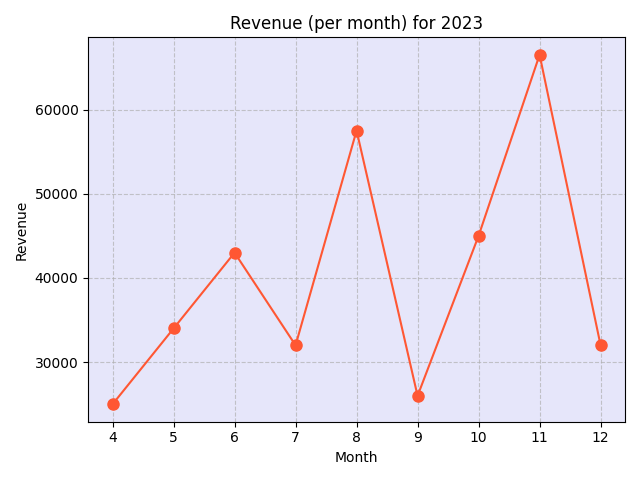
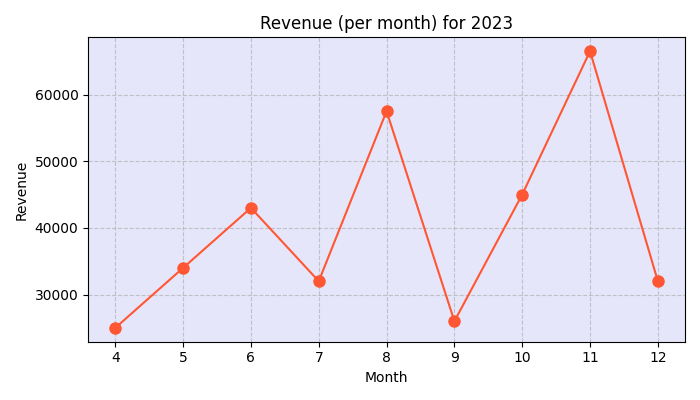
All working

diff --git a/templates/demo.html b/templates/demo.html
@@ -17,6 +17,8 @@
     
         <!-- Bootstrap JavaScript -->
         <script src="https://cdnjs.cloudflare.com/ajax/libs/twitter-bootstrap/3.3.7/js/bootstrap.min.js"></script>
+
+        <script src="https://cdn.plot.ly/plotly-latest.min.js"></script>
         <title>SmartLeather.io - {% block title %}Demo{% endblock %}</title>
     </head>    
     <body>
@@ -143,6 +145,72 @@
                         </div>
                     </div>
                 </div>
+            </div>
+        </div>
+
+        <div id="home" class="sect sect--padding-top">
+            <div class="container">
+                <div class="row">
+                    <div class="col-md-12">
+                        <div class="site">
+                            <h1 class="site__title">Download Up-To-Date Data</h1><br>
+                            <h2 class="row__sub">View and know your data in excel sheet</h2><br>
+                            <div class="site__box-link">
+                                <button class="btn btn--purple btn-width" onclick="download()">Download</button>
+                            </div>
+                        </div>
+                    </div>
+                </div>
+            </div>
+        </div>
+
+        <div class="sect sect--white">
+            <div class="container">
+                <div class="row">
+                    <h1 class="row__title">
+                        Visualized Dashboard
+                    </h1>
+                    <h2 class="row__sub">Explore and Analyze the Visualized Data</h2>
+                </div>
+        
+                <div class="row row--margin">
+                    <div class="col-md-6 article-pre__col">
+                        <div class="article-pre ">
+                            <div class="article-pre__img article-pre__img--1"></div>
+                            <h2 class="article-pre__info">
+                                <span class="article-pre__cat"><b>Revenue Line Graph</b></span>
+                            </h2>
+                        </div>
+                    </div>
+        
+                    <div class="col-md-6 article-pre__col">
+                        <a class="article-pre " href="/live">
+                        <div class="article-pre__img article-pre__img--2"></div>
+                        <h2 class="article-pre__info">
+                            <span class="article-pre__cat"><b>Live Dashboard on Orders/Jobs - Click</b></span>
+                        </h2>
+                        </a>
+                    </div>    
+                </div>
+
+                <div class="col-md-6 article-pre__col">
+                    <div class="article-pre ">
+                        <div class="article-pre__img article-pre__img--3"></div>
+                        <h2 class="article-pre__info">
+                            <span class="article-pre__cat"><b>Top Most Frequent Clients</b></span>
+                        </h2>
+                    </div>
+                </div>
+    
+                <div class="col-md-6 article-pre__col">
+                    <div class="article-pre ">
+                    <div class="article-pre__img article-pre__img--4"></div>
+                    <h2 class="article-pre__info">
+                        <span class="article-pre__cat"><b>Top Hot Selling Products</b></span>
+                    </h2>
+                    </div>
+                </div>    
+            </div>
             </div>
         </div>
 
@@ -343,12 +411,10 @@
                 <div class="row">
                     <div class="col-md-12">
                         <div class="site">
-                            <h1 class="site__title">Start Your Scanner | Download Live Data</h1><br>
-                            <h2 class="row__sub">Print QR Codes - Stick it on the product - Scan it</h2>
-                            <h2 class="row__sub">Download Up-To-Date Excel Sheet</h2><br>
+                            <h1 class="site__title">Start Your Scanner</h1><br>
+                            <h2 class="row__sub">Print QR Codes - Stick it on the product - Scan it</h2><br>
                             <div class="site__box-link">
                                 <a class="btn btn--green" href="/scan">Scan</a>
-                                <button class="btn btn--revert btn-width" onclick="download()">Download</button>
                             </div>
                         </div>
                     </div>
@@ -356,60 +422,6 @@
             </div>
         </div>
     
-        <!--
-        <div class="sect sect--white sect--no-padding">
-            <div class="container">
-                <div class="row row--center">
-                    <div class="col-md-3 col-xs-6 col-sm-6 partner">
-                        <a href="#" class="partner__link">
-                            <img class="partner_img" src="https://image.ibb.co/mOtHRw/fblogo.png">
-                        </a>
-                    </div>
-                
-                    <div class="col-md-3  col-xs-6 col-sm-6 partner">
-                        <a href="#" class="partner__link">
-                            <img class="partner_img" src="https://image.ibb.co/nfpXRw/twitterlogo.png">
-                        </a>
-                    </div>
-        
-        
-                    <div class="col-md-3 col-xs-6 col-sm-6 partner">
-                        <a href="#" class="partner__link">
-                            <img class="partner_img" src="https://image.ibb.co/imgOYb/googlelogo.png">
-                        </a>
-                    </div>
-        
-                    <div class="col-md-3 col-xs-6 col-sm-6 partner">
-                        <a href="#" class="partner__link">
-                            <img class="partner_img" src="https://image.ibb.co/ebGAeG/dribbblelogo.png">
-                        </a>
-                    </div>
-                </div>
-                <div class="row row--center">
-                    <div class="col-md-3 col-xs-6 col-sm-6 partner">
-                        <a href="#" class="partner__link">
-                            <img class="partner_img" src="https://image.ibb.co/npV8Yb/gitlogo.png">
-                        </a>
-                    </div>
-                    <div class="col-md-3 col-xs-6 col-sm-6 partner">
-                        <a href="#" class="partner__link">
-                            <img class="partner_img" src="https://image.ibb.co/cGyZ6w/stacklogo.png">
-                        </a>
-                    </div>
-                    <div class="col-md-3 col-xs-6 col-sm-6 partner">
-                        <a href="#" class="partner__link">
-                            <img class="partner_img" src="https://image.ibb.co/ij03zG/inlogo.png">
-                        </a>
-                    </div>
-                    <div class="col-md-3 col-xs-6 col-sm-6 partner">
-                        <a href="#" class="partner__link">
-                            <img class="partner_img" src="https://image.ibb.co/ekqdzG/codepenlogo.png">
-                        </a>
-                    </div>
-                </div>
-            </div>    
-        </div>
-        --->
         <div class="sect sect--white">
             <div class="container">
                 <div class="row">
@@ -487,8 +499,13 @@
             </div>
         </footer>
         <script>
-            function download(){
-                fetch('/download').then(response => console.log(response.text()));
+            function download() {
+                const a = document.createElement('a');
+                a.href = '/download';
+                a.download = 'management.xlsx';
+                document.body.appendChild(a);
+                a.click();
+                document.body.removeChild(a);
             }
             $("#myCarousel").carousel({
                 interval: false

diff --git a/static/styles.css b/static/styles.css
@@ -618,6 +618,22 @@ filter: drop-shadow(0px 7px 4px rgba(0,0,0,.2));
   background-image: url(/static/assets/process.jpg);  
 }
 
+.article-pre__img--1{
+  background-image: url(/static/graphs/revenue.png);  
+}
+
+.article-pre__img--2{
+  background-image: url(/static/graphs/gauge_chart.png);  
+}
+
+.article-pre__img--3{
+  background-image: url(/static/graphs/customers.png);  
+}
+
+.article-pre__img--4{
+  background-image: url(/static/graphs/products.png);  
+}
+
 .article-pre:hover .article-pre__img {
   box-shadow: 0px 10px 13px 4px rgba(0, 0, 0,0.2);
 }

diff --git a/templates/live.html b/templates/live.html
@@ -1,0 +1,10 @@
+{% extends "demo.html" %}
+{% block title %}
+    Live Dashboard
+{% endblock %}
+
+{% block main %}
+    {% for item in charts %}
+        <div class="chart-container">{{ item | safe }}</div>
+    {% endfor %}
+{% endblock %}

diff --git a/app.py b/app.py
@@ -2,10 +2,12 @@ from cs50 import SQL
 from flask import Flask, redirect, render_template, request, session, send_file
 from flask_session import Session
 
+from download_excel import export_all_tables_to_excel
 from qr_scan import QRScanner
 from qr_generator import generate_qr_code
 from id_generation import product_id_generation, order_id_generation, customer_id_generation, job_card_generation
 from methods import copy_to_clipboard, customer_exists, add_customer, get_customers, check_customer, delete_customer, get_products, add_product, check_product, delete_product, add_order, check_order, delete_order
+from data_visualization import revenue_chart, top_customers, top_products, job_charts
 
 app = Flask(__name__)
 db = SQL("sqlite:///management.db")
@@ -32,6 +34,9 @@ def demo():
     if request.method == "GET":
         CUSTOMERS = get_customers()
         PRODUCTS = get_products()
+        revenue_chart()
+        top_customers()
+        top_products()
         return render_template("demo.html", customers = CUSTOMERS, products = PRODUCTS)
     else:
         # New Product
@@ -193,8 +198,14 @@ def stop_scanner():
     return 'Scanner stopped'
 
 @app.route("/download")
-def download():
-    pass
+def download_excel():
+    export_all_tables_to_excel()
+    return send_file("management.xlsx", as_attachment=True)
+
+@app.route("/live")
+def live():
+    CHARTS = job_charts()
+    return render_template("live.html", charts=CHARTS)
 
 if __name__ == '__main__':
     app.run(debug=True)

diff --git a/download_excel.py b/download_excel.py
@@ -1,27 +1,25 @@
 import sqlite3
 import pandas as pd
 
-def export_data_to_excel():
+def export_all_tables_to_excel(db_file_path='management.db', excel_file_path='management.xlsx'):
     # Connect to the SQLite database
-    conn = sqlite3.connect('management.db')  # Replace 'your_database.db' with the actual name of your SQLite database
-    cursor = conn.cursor()
+    conn = sqlite3.connect(db_file_path)
 
-    # Fetch all table names from the database
+    # Get a list of all tables
+    cursor = conn.cursor()
     cursor.execute("SELECT name FROM sqlite_master WHERE type='table';")
     tables = cursor.fetchall()
 
-    # Create a Pandas Excel writer using the 'xlsxwriter' engine
-    excel_writer = pd.ExcelWriter('exported_data.xlsx', engine='openpyxl')
+    # Excel writer engine
+    excel_writer = pd.ExcelWriter(excel_file_path, engine='xlsxwriter')
 
-    # Iterate through each table and write it to the Excel file
+    # Loop through all tables and export data to Excel
     for table in tables:
         table_name = table[0]
         query = f"SELECT * FROM {table_name};"
         df = pd.read_sql_query(query, conn)
         df.to_excel(excel_writer, sheet_name=table_name, index=False)
 
-    # Close the Pandas Excel writer and the SQLite connection
-    excel_writer.save()
+    # Save the Excel file
+    excel_writer.close()
     conn.close()
-
-export_data_to_excel()

diff --git a/data_visualization.py b/data_visualization.py
@@ -12,6 +12,7 @@ def revenue_chart():
     rows = db.execute("SELECT Total_Revenue FROM revenue WHERE YEAR = 2023")
     revenue = [row["Total_Revenue"] for row in rows]
     
+    plt.figure(figsize=(7, 4))
     plt.plot(months, revenue, color="#FF5733", label="Revenue (per month) for 2023", linestyle='-', marker='o', markersize=8)
     plt.xlabel("Month")
     plt.ylabel("Revenue")
@@ -35,6 +36,8 @@ def top_customers():
         names.append(row[0]["Customer_Name"])
     colors = ["#B85042", "#A7BEAE", "#E7E8D1"]
     explode = (0.1, 0, 0)
+
+    plt.figure(figsize=(10, 4))
     plt.pie(counts, labels=names, startangle=90, colors=colors, explode=explode, shadow=True)
     plt.title('Our Top Three Most Frequent Customers')
     plt.tight_layout()
@@ -50,6 +53,8 @@ def top_products():
         names.append(row[0]["Product_Name"])
     colors = ["#DDC3A5", "#201E20", "#E0A96D"]
     explode = (0.1, 0, 0)
+
+    plt.figure(figsize=(10, 4))
     plt.pie(counts, labels=names, startangle=90, colors=colors, explode=explode, shadow=True)
     plt.title('Our Top Three Hot Selling Products')
     plt.tight_layout()
